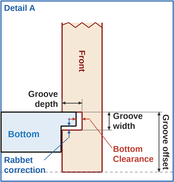
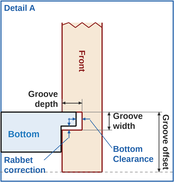
Bottom Clearance in blue instead of red, remove German terms from tooltips

diff --git a/Simple_Box_Creator_dev.html b/Simple_Box_Creator_dev.html
@@ -247,16 +247,16 @@
           <td style="width: 245px; vertical-align: middle;">
             <div class="sub-panel">
               <div class="sub-panel-title">Bottom Panel</div>
-              <div class="field-row" title="Thickness of the bottom panel - defaults to the material thickness. If it is thinner than the material, the bottom is cut from separate stock: it is placed on its own sheet (Bottom Panel + thickness) and its own layers (Bottom Panel / CutOut Bottom), with its own cutout toolpath at the bottom thickness. If it is thicker than the groove width, a rabbet (Falz) is milled along its Side 1, Side 2 and End 1 edges down to the groove width, so it still seats in the groove; End 2's edge stays full thickness, since the panel is slid in from that opening. If it is not thicker than the groove, no rabbet is milled (e.g. a thinner plywood bottom cut from separate material).">
+              <div class="field-row" title="Thickness of the bottom panel - defaults to the material thickness. If it is thinner than the material, the bottom is cut from separate stock: it is placed on its own sheet (Bottom Panel + thickness) and its own layers (Bottom Panel / CutOut Bottom), with its own cutout toolpath at the bottom thickness. If it is thicker than the groove width, a rabbet is milled along its Side 1, Side 2 and End 1 edges down to the groove width, so it still seats in the groove; End 2's edge stays full thickness, since the panel is slid in from that opening. If it is not thicker than the groove, no rabbet is milled (e.g. a thinner plywood bottom cut from separate material).">
                 <label for="BottomThicknessField">Bottom Thickness</label>
                 <input type="number" step="any" id="BottomThicknessField" placeholder="Thickness" onkeydown="return event.keyCode !== 189 && event.keyCode !== 109;" onkeyup="updateBottomRabbetInfo()" onchange="updateBottomRabbetInfo(); onGeometryFieldChanged();"/>
               </div>
-              <div class="field-row" title="'Falz Luft' - fine-tune correction added to the computed rabbet depth (bottom thickness minus groove width), e.g. a small positive value for a looser fit, negative for tighter. Only used when the bottom is thicker than the groove width (i.e. a rabbet is milled).">
+              <div class="field-row" title="Fine-tune correction added to the computed rabbet depth (bottom thickness minus groove width), e.g. a small positive value for a looser fit, negative for tighter. Only used when the bottom is thicker than the groove width (i.e. a rabbet is milled).">
                 <label for="BottomRabbetCorrectionField" style="color: #1155A2;">Rabbet correction</label>
                 <input type="number" step="any" id="BottomRabbetCorrectionField" placeholder="Correction" onkeydown="return event.keyCode !== 189 && event.keyCode !== 109;" onkeyup="updateBottomRabbetInfo()" onchange="updateBottomRabbetInfo(); onGeometryFieldChanged();"/>
               </div>
-              <div class="field-row" style="margin-bottom: 0;" title="'Luft seitlich' - clearance subtracted from how far the panel reaches into each of the 3 grooves (Side 1, Side 2, End 1), for an easier slide fit.">
-                <label for="BottomGrooveClearanceField" style="color: #BA2819;">Bottom Clearance</label>
+              <div class="field-row" style="margin-bottom: 0;" title="Clearance subtracted from how far the panel reaches into each of the 3 grooves (Side 1, Side 2, End 1), for an easier slide fit.">
+                <label for="BottomGrooveClearanceField" style="color: #1155A2;">Bottom Clearance</label>
                 <input type="number" step="any" id="BottomGrooveClearanceField" placeholder="Clearance" onkeydown="return event.keyCode !== 189 && event.keyCode !== 109;"/>
               </div>
             </div>
@@ -426,12 +426,12 @@
     applyThemedLabelColors(checkbox.checked);
   }
 
-  // Labels that carry the colour of their dimension in the sketch (red / blue). The dark
+  // Labels that carry the colour of their dimension in the sketch (blue). The dark
   // text colours are hard to read on the dark background, so each gets a lighter variant
   // there: [light mode, dark mode]. Plain DOM calls only, so it stays IE7-safe.
   // -- by Claude 10/7/2026
   var g_themedLabels = {
-    "BottomGrooveClearanceField":  ["#BA2819", "#FF8A7A"],
+    "BottomGrooveClearanceField":  ["#1155A2", "#7DB4F5"],
     "BottomRabbetCorrectionField": ["#1155A2", "#7DB4F5"]
   };
   function applyThemedLabelColors(isDark) {
